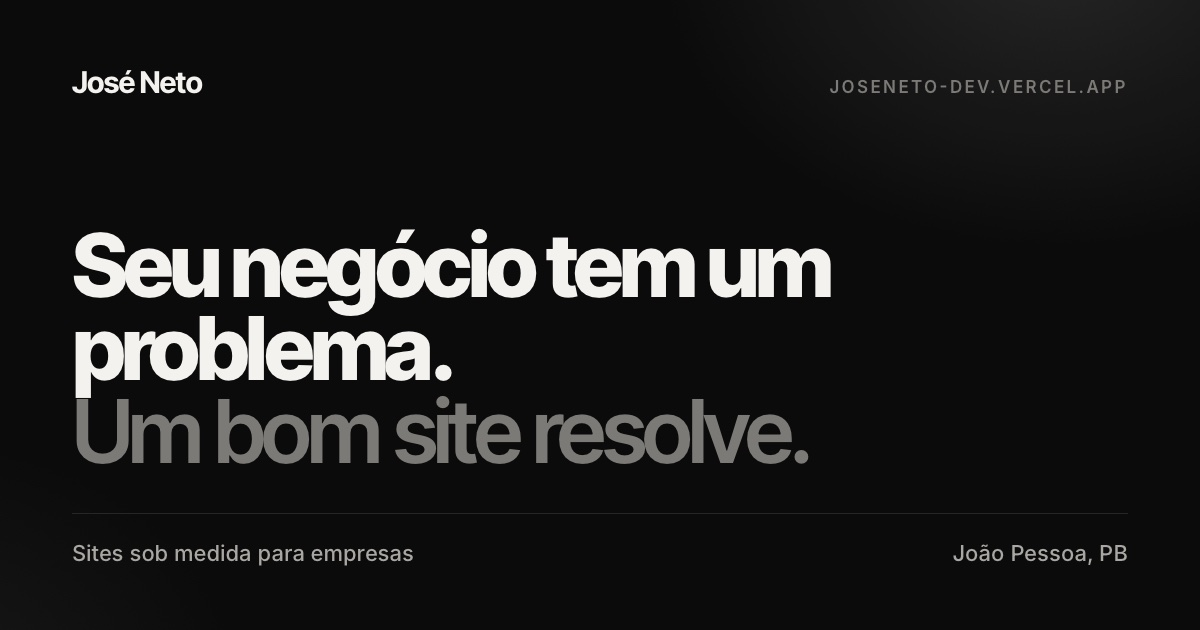
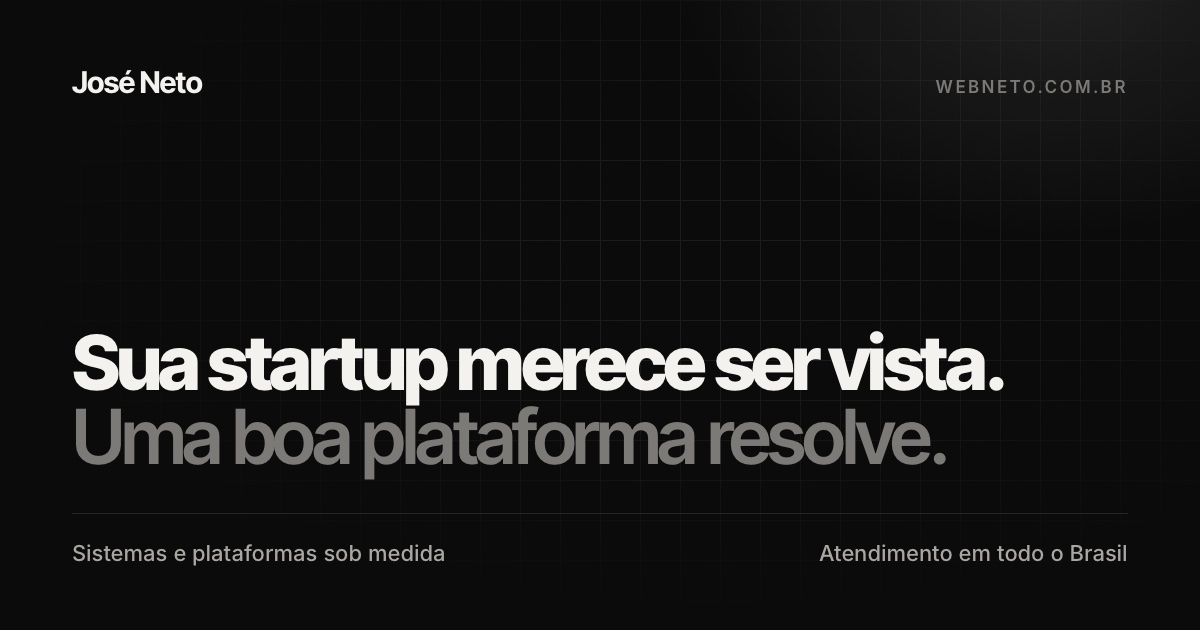
Domínio webneto.com.br e nova imagem de prévia
Endereço oficial, og:url e og:image apontam para webneto.com.br;
descrições atualizadas para sistemas e plataformas; imagem de prévia
refeita com o título atual, o domínio e a grade do site.

diff --git a/index.html b/index.html
@@ -4,18 +4,18 @@
 <meta charset="UTF-8">
 <meta name="viewport" content="width=device-width, initial-scale=1">
 <title>José Neto — Desenvolvedor Web</title>
-<meta name="description" content="José Neto, desenvolvedor web. Sites sob medida que resolvem problemas reais de empresas, com orçamento personalizado para cada cliente.">
+<meta name="description" content="José Neto, desenvolvedor de sistemas. Plataformas e sites sob medida para iniciativas e empresas de todo o Brasil, com orçamento personalizado.">
 <meta property="og:title" content="José Neto — Desenvolvedor Web">
-<meta property="og:description" content="Sites sob medida para empresas, pensados a partir do problema que cada negócio precisa resolver.">
+<meta property="og:description" content="Sistemas e plataformas sob medida, pensados a partir do problema que cada negócio precisa resolver.">
 <meta property="og:type" content="website">
 <meta property="og:locale" content="pt_BR">
-<meta property="og:url" content="https://joseneto-dev.vercel.app/">
-<meta property="og:image" content="https://joseneto-dev.vercel.app/og-image.jpg">
+<meta property="og:url" content="https://webneto.com.br/">
+<meta property="og:image" content="https://webneto.com.br/og-image.jpg">
 <meta property="og:image:width" content="1200">
 <meta property="og:image:height" content="630">
-<meta property="og:image:alt" content="José Neto — Seu negócio merece ser encontrado. Um bom site atrai.">
+<meta property="og:image:alt" content="José Neto — Sua startup merece ser vista. Uma boa plataforma resolve.">
 <meta name="twitter:card" content="summary_large_image">
-<link rel="canonical" href="https://joseneto-dev.vercel.app/">
+<link rel="canonical" href="https://webneto.com.br/">
 <meta name="theme-color" content="#0b0b0b">
 <link rel="icon" href="favicon.svg" type="image/svg+xml">
 <link rel="preconnect" href="https://fonts.googleapis.com">

diff --git a/README.md b/README.md
@@ -30,7 +30,7 @@ No `index.html`, dentro da seção `#projetos`, copie um bloco
 
 ## Deploy
 
-Hospedado na Vercel em https://joseneto-dev.vercel.app, com deploy automático a cada push na branch `main`.
+Hospedado na Vercel em https://webneto.com.br, com deploy automático a cada push na branch `main`.
 
 ## Contato
 
